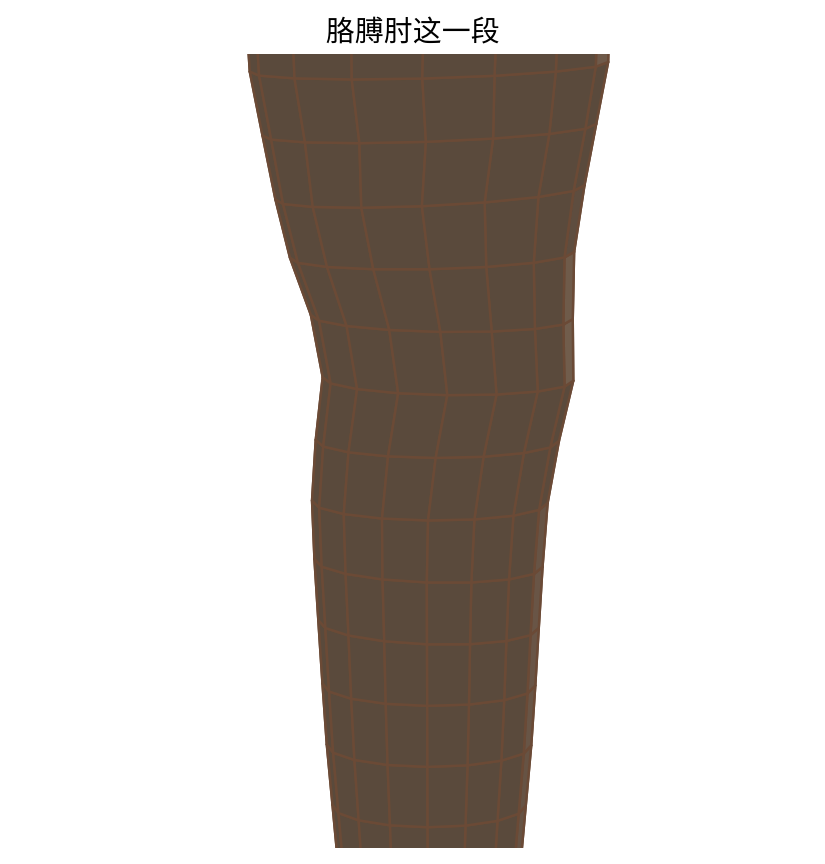
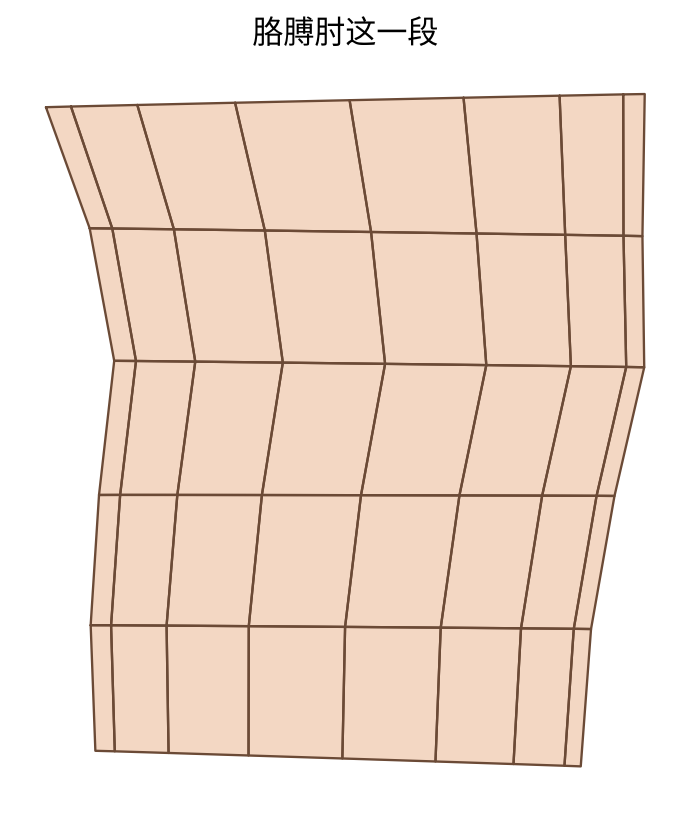
demo: show the ring close-ups as a light grid
The dark shaded crops hid the quads. The middle of each shape is now a few whole rings, large enough to see the loop go around.

diff --git a/demo/tube_retopo.py b/demo/tube_retopo.py
@@ -312,20 +312,39 @@ def save_gallery(items: list[tuple[str, tuple, np.ndarray, np.ndarray, np.ndarra
     plt.close(fig)
 
 
+def _middle_faces(vertices: np.ndarray, faces: np.ndarray, fraction: float = 0.34) -> np.ndarray:
+    """Keep a run of whole rings around the middle, so the crop does not slice a ring in half."""
+    first = [int(index) for index in faces[0]]
+    gaps = [abs(a - b) for a, b in zip(first, first[1:] + first[:1])]
+    around = max(gaps)
+    if around < 3 or len(vertices) % around != 0:
+        return np.asarray(faces)
+    n_rings = len(vertices) // around
+    keep_rings = max(4, int(round(n_rings * fraction)))
+    start = max(0, (n_rings - keep_rings) // 2)
+    stop = min(n_rings, start + keep_rings)
+    keep = []
+    for face in faces:
+        rings = [int(index) // around for index in face]
+        if min(rings) >= start and max(rings) < stop:
+            keep.append(face)
+    if len(keep) < 4:
+        return np.asarray(faces)
+    return np.asarray(keep, dtype=np.int32)
+
+
 def save_loop_closeup(items: list[tuple[str, tuple, np.ndarray, np.ndarray, np.ndarray]], out: Path) -> None:
     setup_font()
-    fig = plt.figure(figsize=(10.8, 4.2), facecolor="white")
-    for index, (name, _sculpt, quads_v, quads_f, _bent) in enumerate(items, start=1):
-        upright = stand_up(quads_v)
-        band = np.abs(upright[:, 2]) < 0.28 * max(np.ptp(upright[:, 2]), 1e-6)
-        if int(band.sum()) < 12:
-            band = np.ones(len(upright), dtype=bool)
-        limits = bounds_of([upright[band]], pad=0.03)
-        ax = fig.add_subplot(1, len(items), index, projection="3d")
-        _draw(ax, upright, quads_f, QUAD_EDGE, f"{name}的环", limits, elev=8, azim=-90, linewidth=0.7)
+    fig, axes = plt.subplots(1, len(items), figsize=(11.2, 5.2), facecolor="white")
+    for ax, (name, _sculpt, quads_v, quads_f, _bent) in zip(axes, items):
+        center, rotation = _upright_frame(quads_v)
+        upright = (quads_v - center) @ rotation.T
+        band = _middle_faces(upright, quads_f)
+        _draw_side(ax, upright, band, upright, band, f"{name}的环")
     fig.suptitle("套完之后，边是一圈一圈绕过去的", fontsize=16)
+    fig.subplots_adjust(top=0.78, wspace=0.35)
     out.parent.mkdir(parents=True, exist_ok=True)
-    fig.savefig(out, dpi=140, bbox_inches="tight", facecolor="white")
+    fig.savefig(out, dpi=150, bbox_inches="tight", facecolor="white")
     plt.close(fig)
 
 
@@ -483,21 +502,11 @@ def main() -> None:
         gallery = args.out if args.out.name != "07_retopo.png" else args.out.with_name("08_shapes.png")
         save_gallery(items, gallery)
         save_loop_closeup(items, gallery.with_name("09_loops.png"))
-        arm_up = stand_up(items[0][2])
-        elbow = np.abs(arm_up[:, 2]) < 0.22 * max(float(np.ptp(arm_up[:, 2])), 1e-6)
-        close = plt.figure(figsize=(6.4, 7.2), facecolor="white")
-        ax = close.add_subplot(1, 1, 1, projection="3d")
-        _draw(
-            ax,
-            arm_up,
-            items[0][3],
-            QUAD_EDGE,
-            "胳膊肘这一段",
-            bounds_of([arm_up[elbow]], pad=0.02),
-            elev=8,
-            azim=-90,
-            linewidth=1.1,
-        )
+        arm_center, arm_rotation = _upright_frame(items[0][2])
+        arm_up = (items[0][2] - arm_center) @ arm_rotation.T
+        elbow_faces = _middle_faces(arm_up, items[0][3], fraction=0.28)
+        close, ax = plt.subplots(figsize=(4.2, 6.4), facecolor="white", constrained_layout=True)
+        _draw_side(ax, arm_up, elbow_faces, arm_up, elbow_faces, "胳膊肘这一段")
         close.savefig(gallery.with_name("11_arm_close.png"), dpi=160, bbox_inches="tight", facecolor="white")
         plt.close(close)
         save_bend_gif(items[0][2], items[0][3], gallery.with_name("retopo_bend.gif"))
